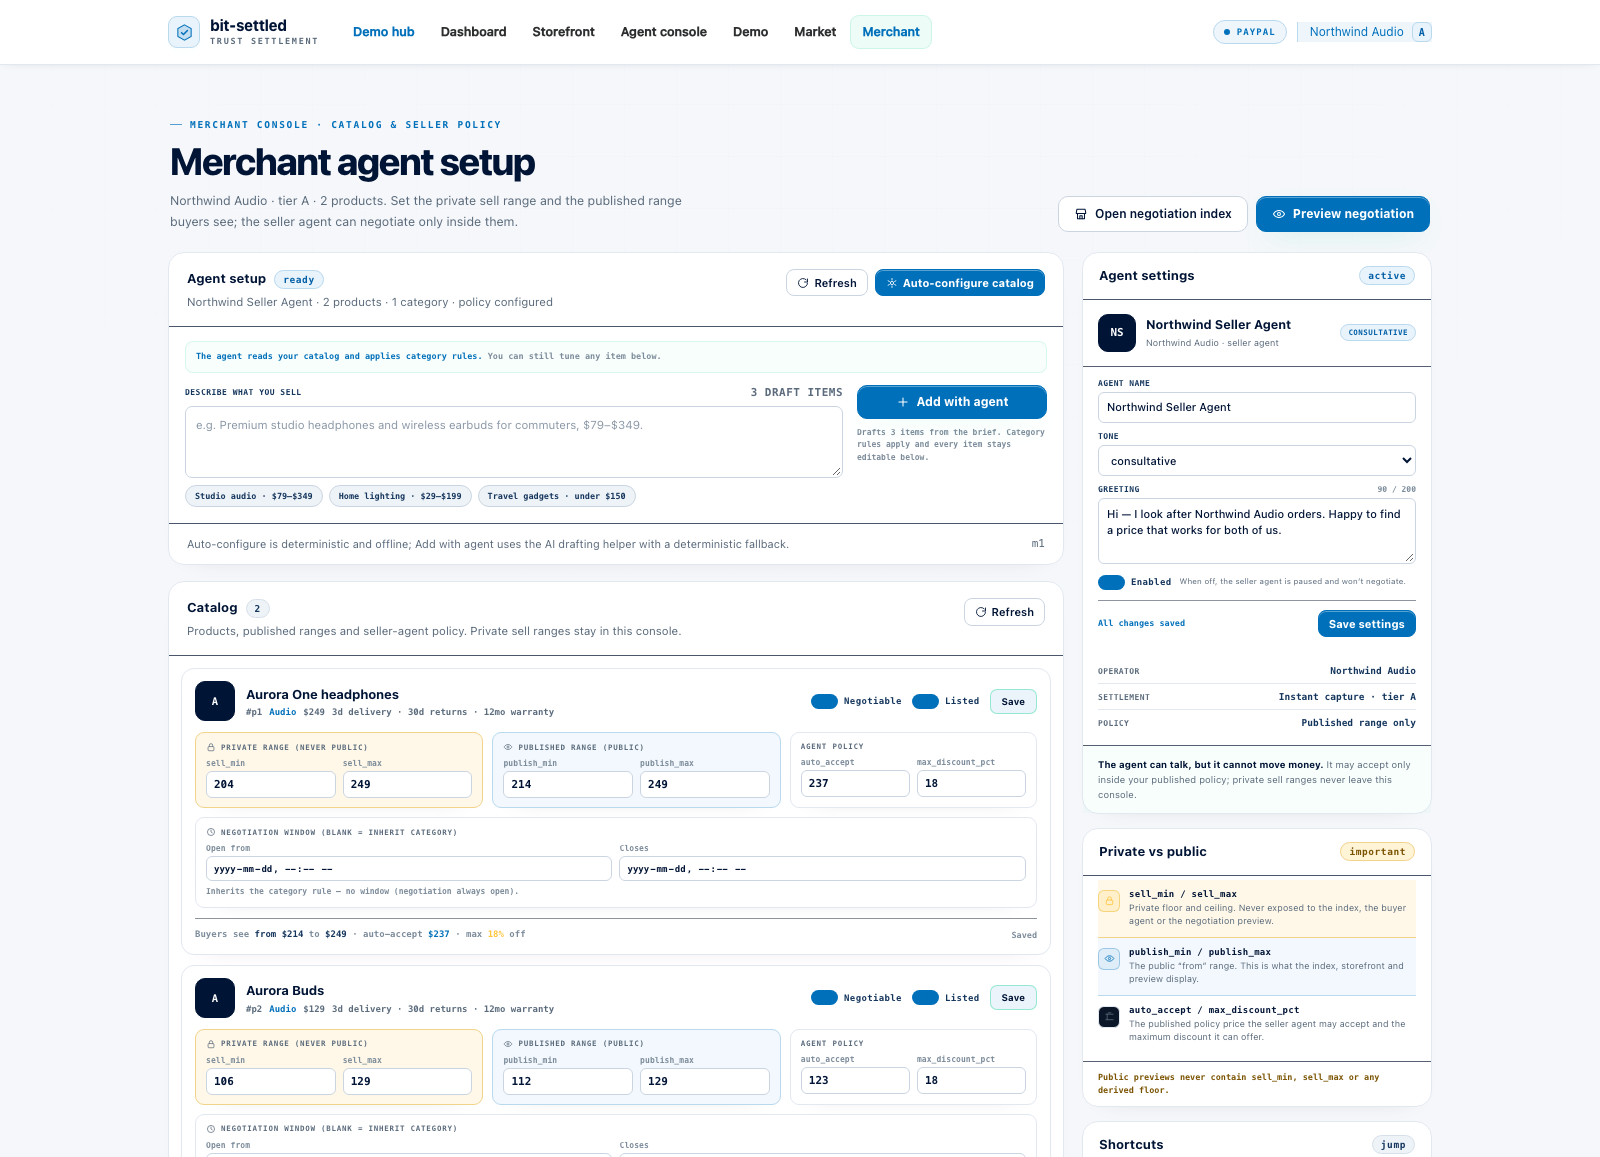
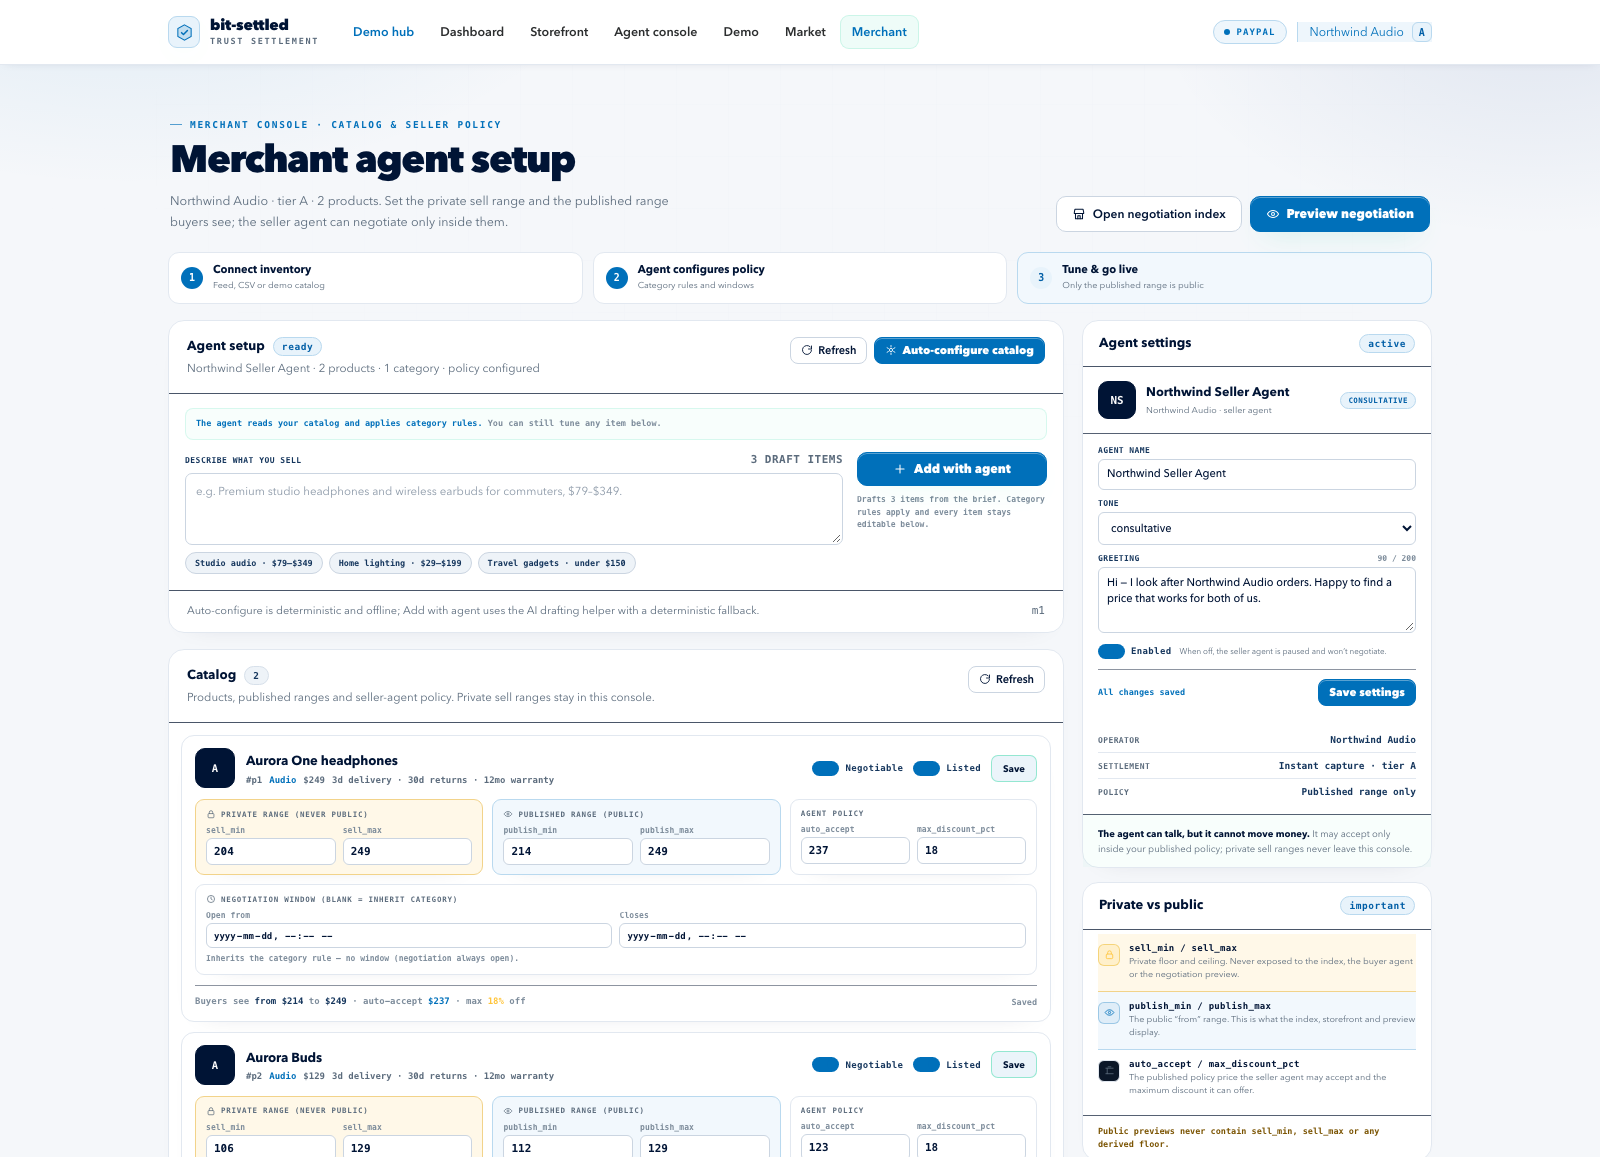
Apply PayPal design philosophy: blue-first, plain language, one primary action

diff --git a/public/paypal-theme.css b/public/paypal-theme.css
@@ -309,3 +309,35 @@ body.paypal-theme .integrate-table td { background: #fff !important; }
 html { color-scheme: light !important; }
 body.paypal-theme ::selection { background: #cce8fb !important; color: #001435 !important; }
 body.paypal-theme :focus-visible { outline-color: #0070ba !important; }
+
+/* ---- PayPal design philosophy: blue-first, human, accessible ---- */
+body.paypal-theme {
+  --sans: "Avenir Next", "Futura", "Century Gothic", "Segoe UI", Roboto, "Helvetica Neue", Arial, sans-serif;
+  --shadow: 0 14px 34px -28px rgba(0, 20, 53, .26);
+}
+body.paypal-theme .bg {
+  background:
+    radial-gradient(52% 42% at 8% -10%, rgba(0, 112, 186, .12), transparent 62%),
+    radial-gradient(40% 34% at 96% 0%, rgba(0, 48, 135, .09), transparent 60%),
+    #f5f7fa !important;
+}
+body.paypal-theme .bg::after { opacity: .22 !important; }
+body.paypal-theme h1, body.paypal-theme .demo-title, body.paypal-theme .hub-hero h1,
+body.paypal-theme .page-title, body.paypal-theme .merchant-title {
+  letter-spacing: -.035em;
+}
+body.paypal-theme .brand-mark, body.paypal-theme .hub-card .hub-kicker,
+body.paypal-theme .eyebrow { color: #0070ba !important; }
+body.paypal-theme .badge.gold, body.paypal-theme .badge.amber {
+  background: #e8f3fb !important; border-color: #b9d9ef !important; color: #005ea6 !important;
+}
+body.paypal-theme .btn, body.paypal-theme .hub-card { transition: transform .16s ease, box-shadow .16s ease, border-color .16s ease, background .16s ease; }
+body.paypal-theme .btn:active { transform: translateY(1px); }
+body.paypal-theme .hub-card:hover { box-shadow: 0 16px 34px -28px rgba(0, 20, 53, .28) !important; }
+body.paypal-theme .hub-actions .btn-primary { box-shadow: 0 8px 20px -12px rgba(0, 112, 186, .55); }
+@media (prefers-reduced-motion: reduce) {
+  body.paypal-theme *, body.paypal-theme *::before, body.paypal-theme *::after {
+    animation-duration: .01ms !important; animation-iteration-count: 1 !important;
+    transition-duration: .01ms !important; scroll-behavior: auto !important;
+  }
+}

diff --git a/public/merchant.html b/public/merchant.html
@@ -283,6 +283,15 @@
   .inv-grid{grid-template-columns:1fr}
   .inv-stats{grid-template-columns:1fr 1fr}
 }
+/* setup rail */
+.setup-rail{display:grid;grid-template-columns:repeat(3,minmax(0,1fr));gap:10px;margin:0 0 16px}
+.setup-step{display:flex;align-items:center;gap:10px;border:1px solid var(--line);border-radius:11px;background:#fff;padding:10px 12px;min-width:0}
+.setup-step .setup-n{display:grid;place-items:center;width:22px;height:22px;border-radius:50%;background:#e8f3fb;color:#005ea6;font:800 10px var(--mono);flex:none}
+.setup-step.done .setup-n{background:#0070ba;color:#fff}
+.setup-step.active{border-color:#b9d9ef;background:#f2f8fd}
+.setup-step b{display:block;font-size:11px;color:#001435;line-height:1.25}
+.setup-step small{display:block;font-size:9px;color:#5b6b7c;margin-top:2px}
+@media(max-width:760px){.setup-rail{grid-template-columns:1fr}}
 </style>
 <link rel="stylesheet" href="paypal-theme.css">
 </head>
@@ -333,6 +342,12 @@
           Preview negotiation
         </a>
       </div>
+    </section>
+
+    <section class="setup-rail" aria-label="Setup progress">
+      <div class="setup-step done"><span class="setup-n">1</span><div><b>Connect inventory</b><small>Feed, CSV or demo catalog</small></div></div>
+      <div class="setup-step done"><span class="setup-n">2</span><div><b>Agent configures policy</b><small>Category rules and windows</small></div></div>
+      <div class="setup-step active"><span class="setup-n">3</span><div><b>Tune &amp; go live</b><small>Only the published range is public</small></div></div>
     </section>
 
     <div class="merchant-layout">

diff --git a/public/start.html b/public/start.html
@@ -22,6 +22,8 @@
   .hub-hero h1{font-size:48px;line-height:1.04;letter-spacing:-.04em;margin:12px 0 14px}
   .hub-hero h1 em{color:var(--gold);font-style:normal}
   .hub-hero p{font-size:14px;line-height:1.6;color:var(--muted);max-width:760px}
+  .hub-actions{display:flex;align-items:center;gap:10px;flex-wrap:wrap;margin-top:18px}
+  .hub-actions .btn{padding:10px 16px;font-size:12.5px}
   .hub-grid{display:grid;grid-template-columns:repeat(3,1fr);gap:13px;margin-top:22px}
   .hub-card{display:flex;flex-direction:column;gap:7px;background:linear-gradient(180deg,rgba(17,28,46,.92),rgba(11,20,34,.98));border:1px solid var(--line);border-radius:14px;padding:16px 17px 15px;text-decoration:none;color:inherit;transition:border-color .2s,transform .2s}
   .hub-card:hover{border-color:rgba(43,217,160,.45);transform:translateY(-1px)}
@@ -65,6 +67,10 @@
     <div class="eyebrow">PayPal AI Hackathon 2026 · plug-and-play demo</div>
     <h1>One merchant agent.<br><em>Any personal AI.</em></h1>
     <p>Settled is PayPal's merchant negotiation desk for the agent economy. A merchant configures its catalog, private sell range and published range; its native agent negotiates with any customer's AI; PayPal settles; the buyer gets instant recourse. Every surface below is live in this demo.</p>
+    <div class="hub-actions">
+      <a class="btn btn-primary" href="demo.html">Run the 5-step demo</a>
+      <a class="btn btn-ghost" href="merchant.html">Configure a merchant</a>
+    </div>
   </section>
 
   <div class="hub-grid">

diff --git a/public/demo.html b/public/demo.html
@@ -369,7 +369,7 @@
       <div class="demo-hero-copy">
         <div class="eyebrow">Live demo · agent assurance for PayPal</div>
         <h1 class="demo-title">One agent purchase.<br><em>Five axes fixed.</em></h1>
-        <p class="demo-sub">Trust credential &rarr; agent passport &rarr; negotiated contract &rarr; priced protection and PayPal order &rarr; instant refund. Every step is a live API call; the JSON log on the right is the proof.</p>
+        <p class="demo-sub">A merchant&rsquo;s agent and a buyer&rsquo;s agent agree a price; PayPal protects the payment and refunds automatically if something goes wrong. Every step is a live API call &mdash; the JSON log is the proof.</p>
       </div>
       <div class="demo-hero-actions">
         <div class="demo-hero-buttons">

diff --git a/DESIGN-PHILOSOPHY.md b/DESIGN-PHILOSOPHY.md
@@ -1,0 +1,44 @@
+# PayPal design philosophy, applied to bit-settled
+
+PayPal's current identity is built on **simplicity, trust, optimism, and access**: clean geometric type, a blue-first palette, generous whitespace, and interactions that feel human. The 2024 Pentagram refresh removed decorative yellow from the brand system; yellow survives mainly as the familiar checkout button. We follow the same restraint.
+
+## Principles → what we changed
+
+| PayPal principle | What the demo does |
+|---|---|
+| **Simple by default** | One primary action per screen: *Run full demo*, *Auto-configure catalog*, *Start agent negotiation*. Advanced controls sit below the first action. |
+| **Trust is visible** | Sandbox/SIM status, private-vs-public range separation, signed credential, protection and refund are shown next to the action they affect — not buried in a spec. |
+| **Human and optimistic** | Plain-language explanations, rounded geometric type, soft blue surfaces, and friendly empty/loading states instead of terminal styling. |
+| **Accessible to everyone** | High-contrast navy-on-white, visible focus rings, labelled controls, responsive layouts, and `prefers-reduced-motion` support. |
+| **Consistent system** | Shared tokens for blue, navy, neutral, radius, spacing and type; every surface uses the same nav, buttons, cards and status language. |
+| **Motion with purpose** | Motion is limited to feedback: hover lift, press, progress and state changes. Motion is removed for users who ask for reduced motion. |
+
+## Palette
+
+- **PayPal navy** `#001435` — primary text and strong surfaces
+- **PayPal blue** `#0070BA` / `#005EA6` — primary actions and links
+- **PayPal light blue** `#E8F3FB` / `#F2F8FD` — selected states, trust panels, hovers
+- **White / off-white** `#FFFFFF` / `#F5F7FA` — canvas and cards
+- **Yellow** `#FFC439` — only the actual PayPal checkout button, not decoration
+
+## Type
+
+Display and body use a rounded geometric sans stack (`Avenir Next`, `Futura`, `Century Gothic`, system sans). This mirrors PayPal Pro's circular, approachable forms without shipping external font files.
+
+## UX rules
+
+1. **One primary CTA per view**; secondary actions are ghost buttons or links.
+2. **Explain before asking** — every money action has a one-line “what happens” note.
+3. **Progressive disclosure** — technical JSON, advanced policy and machine endpoints are available but not the first thing a merchant sees.
+4. **No dead ends** — every state has a next action or a return path.
+5. **Say it plainly** — “refunded automatically” before “hash-chained credential”.
+6. **Keep the proof** — simplicity never hides the live API evidence; it is labelled as proof.
+
+## Where it shows up
+
+- `/start.html` — hero CTA to run the demo, then the surfaces.
+- `/demo.html` — one-sentence promise, one primary Run button, proof log beside it.
+- `/merchant.html` — setup checklist, agent-first panels, no manual product entry.
+- `/market.html` — published ranges and windows, no private floors.
+- `/negotiate.html` — price, mandate, protection and refund in the same reading order.
+- `/embed-demo.html` — real PayPal checkout + one-line negotiation install.

diff --git a/README.md b/README.md
@@ -2,6 +2,8 @@
 
 **Settled** — reputation settles with the payment.
 
+**Design:** the interface follows PayPal’s design philosophy — blue-first, simple, trusted, human, accessible. See **[DESIGN-PHILOSOPHY.md](DESIGN-PHILOSOPHY.md)**.
+
 A working prototype of **Trust Settlement**: a portable, HMAC-signed merchant trust ledger that prices buyer protection at checkout and pays claims instantly from a merchant reserve. Built for the idea in [../paypal-parley/TRUST-SETTLEMENT.md](../paypal-parley/TRUST-SETTLEMENT.md).
 
 Zero dependencies. Node built-ins only.
